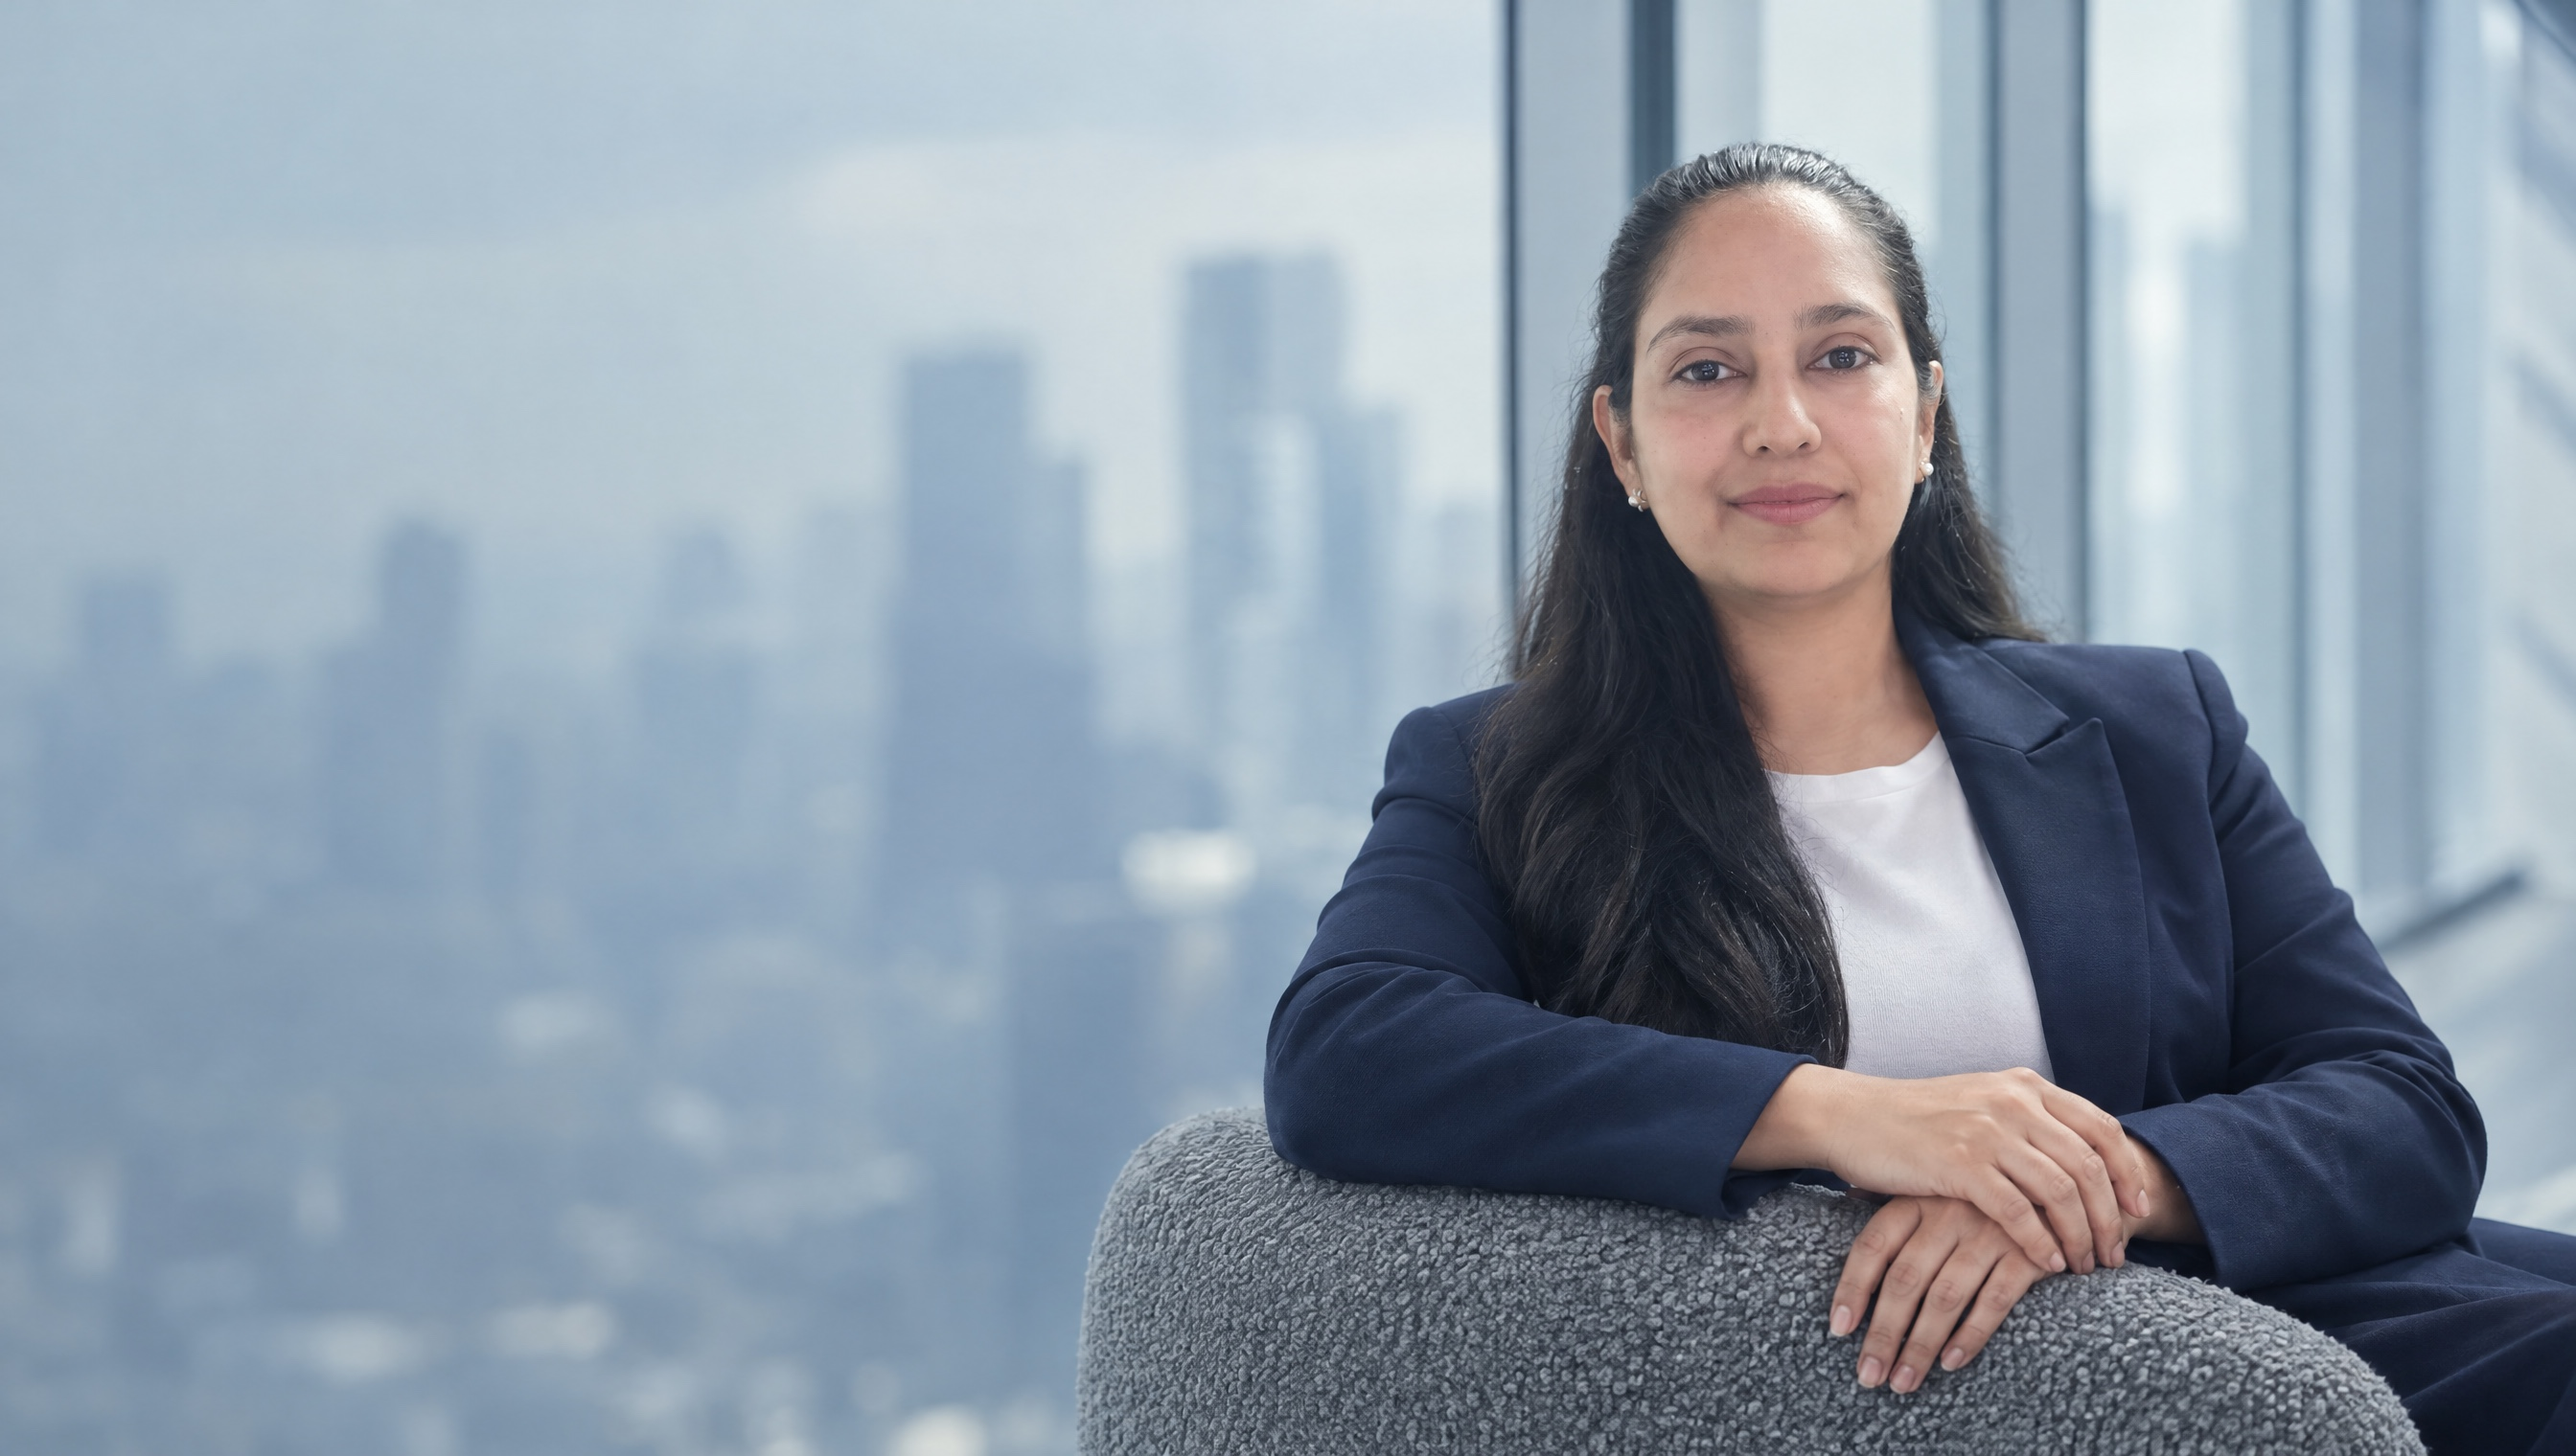
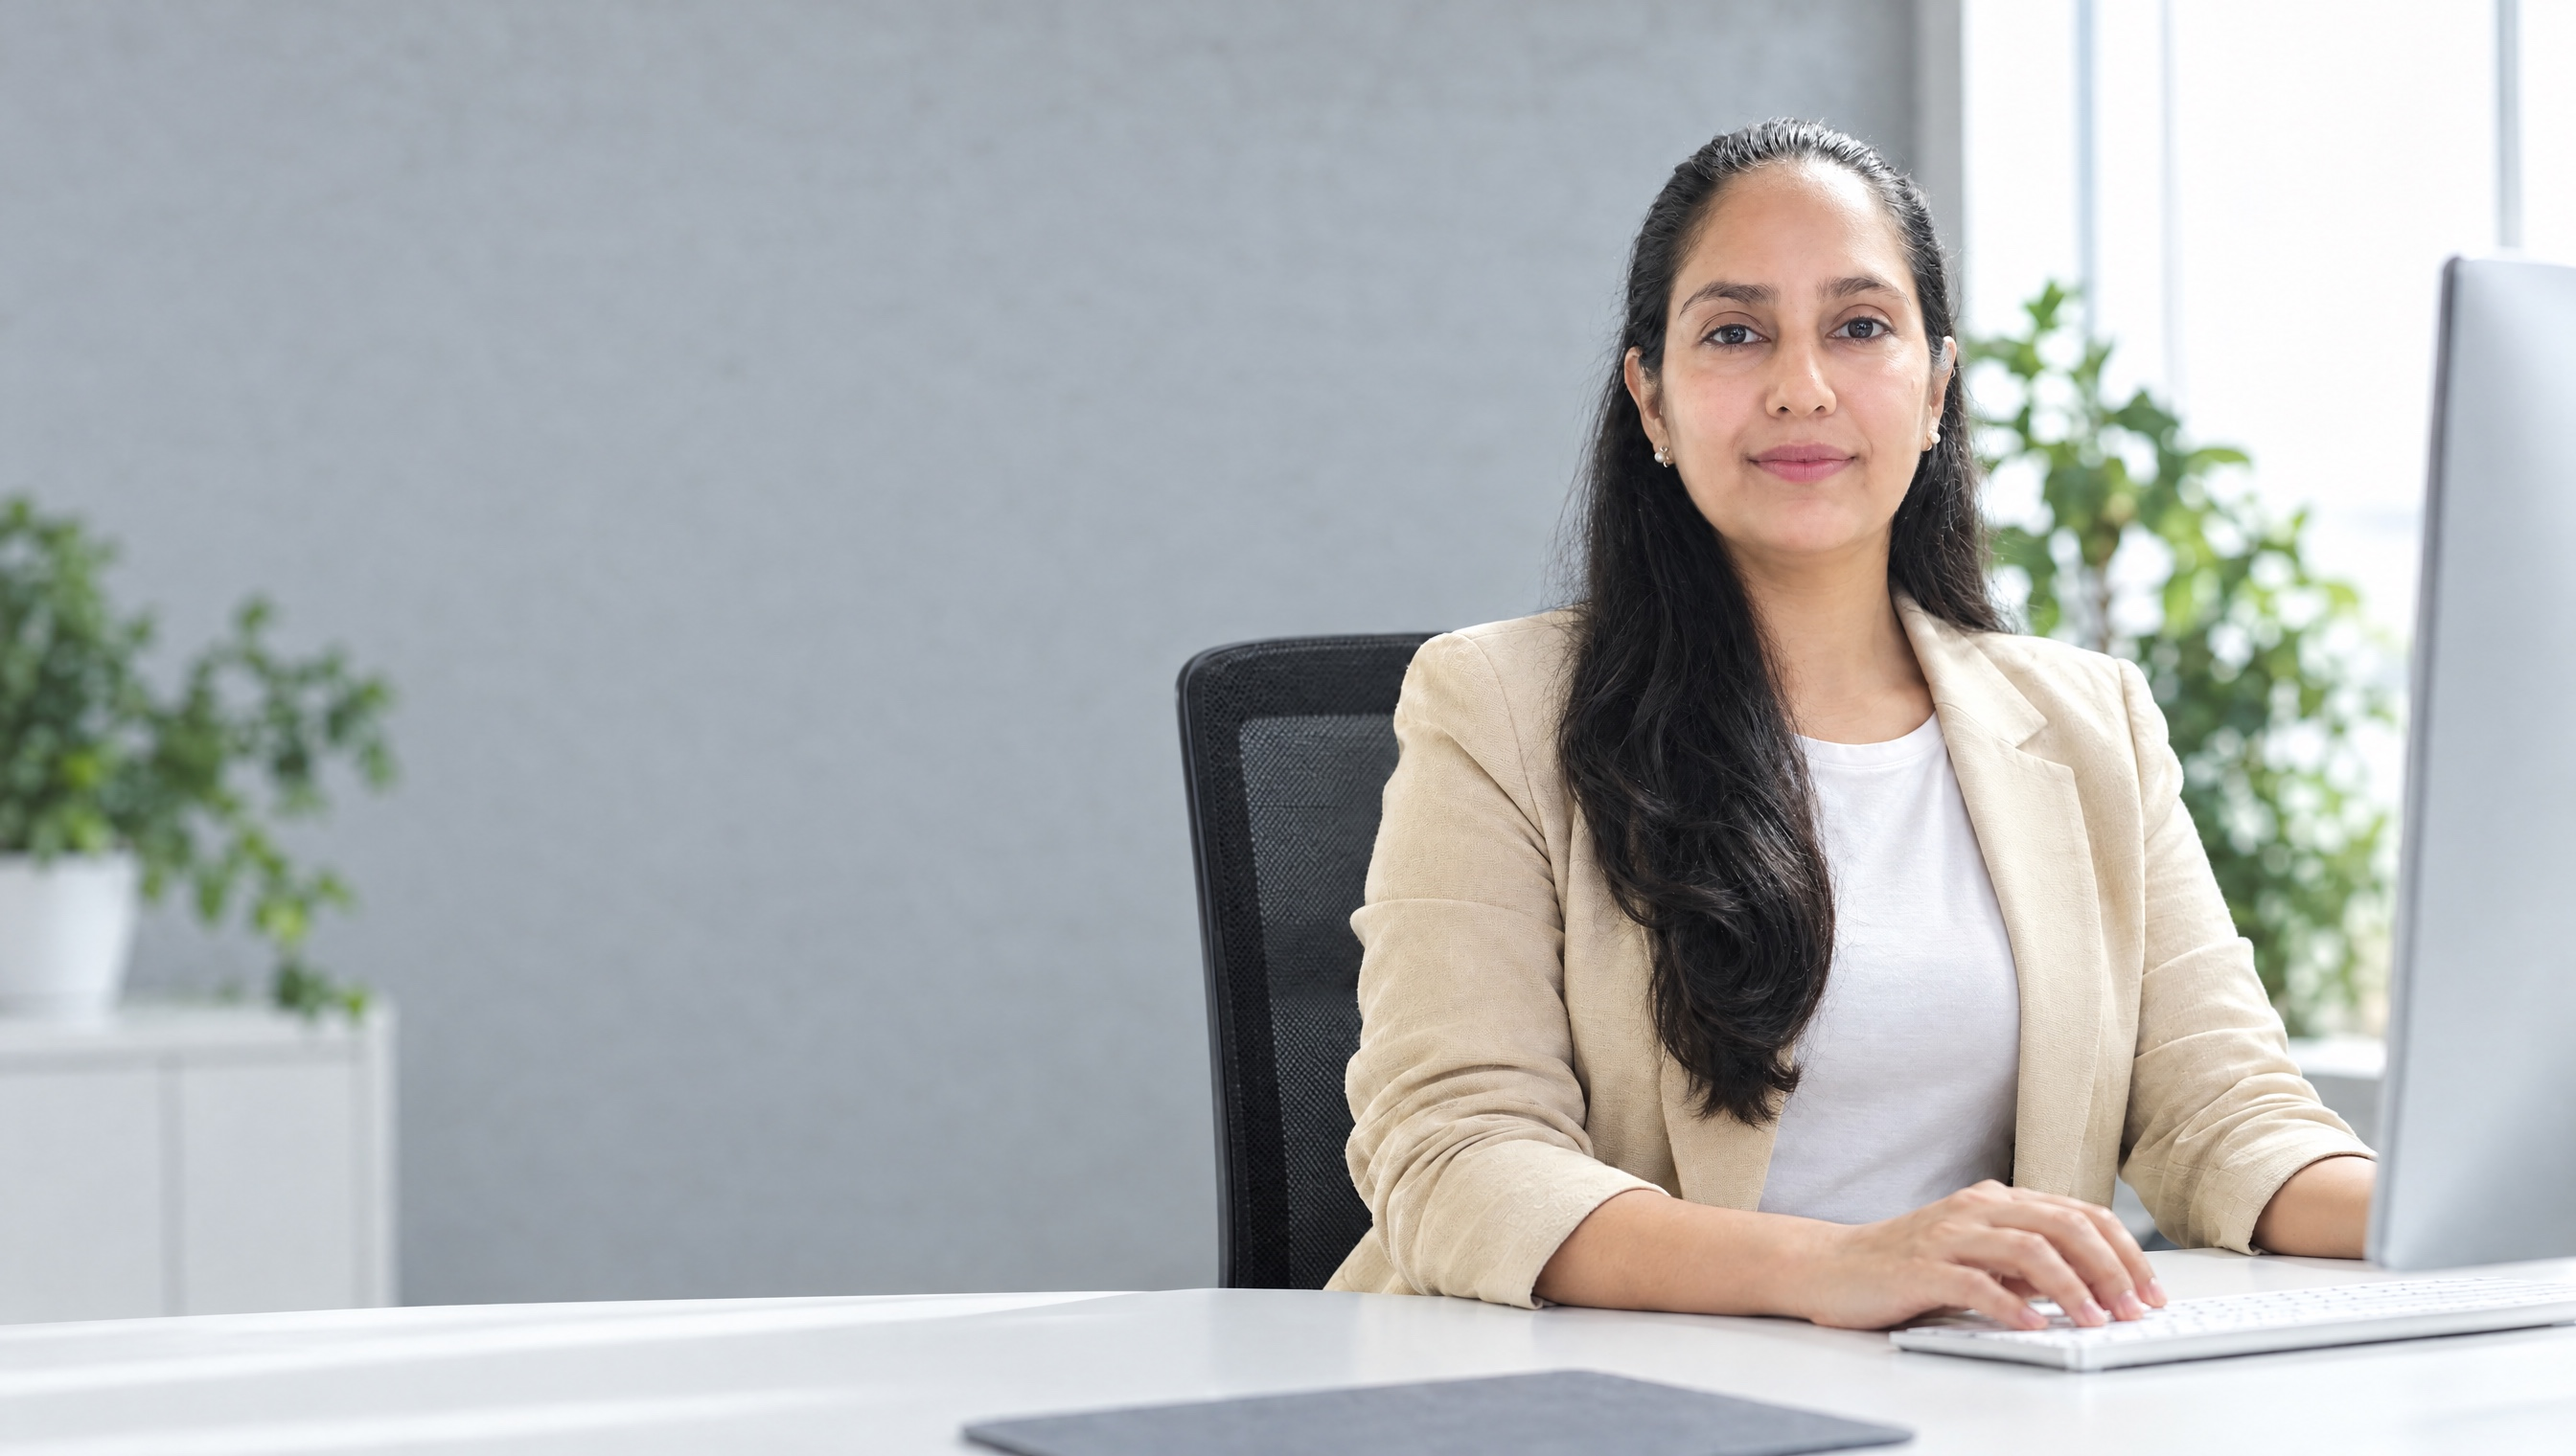
feat(assets): use approved desk portrait as wide hero

diff --git a/docs/SPEC.md b/docs/SPEC.md
@@ -104,9 +104,9 @@ Contrastes AA se verifican y documentan en la implementación.
 
 ### 5.5 Foto y logo (12/10/2026)
 
-- **Foto del hero:** `src/assets/portraits/vanesa-hero.jpg` (16:9), estilo Consultaro: ella sentada en el tercio derecho, blazer navy, ventanal con ciudad desenfocada en tonos fríos, mitad izquierda libre para el texto. Generada con Higgsfield usando sus dos fotos reales como referencia de identidad y el hero de Consultaro como referencia de composición.
+- **Foto del hero (elegida por Iván y Vanesa, 12/10/2026):** `vanesa-hero.jpg` (16:9) = `vanesa-office-desk.jpg` ampliada hacia la izquierda con Higgsfield: ella en el escritorio con blazer beige, en la mitad derecha; oficina clara a la izquierda para el texto. En móvil se usa la vertical `vanesa-office-desk.jpg` (`<picture>` con dirección de arte). Velo oscuro en degradado desde la izquierda para el texto blanco, como Consultaro.
 - **Fotos de apoyo** (generadas con sus dos fotos reales como referencia de identidad, mismo blazer y blusa que el hero para que el set sea coherente):
-  - `vanesa-office-desk.jpg` (4:5): en el escritorio con monitor → **Sobre mí**.
+  - `vanesa-office-desk.jpg` (4:5): versión vertical del hero → **hero en móvil**.
   - `vanesa-reviewing-reports.jpg` (4:5): revisando informes con laptop → **Cómo trabajamos** o página de servicio.
   - `vanesa-wide.jpg` (16:9): de pie a la derecha, espacio libre a la izquierda → **imagen OG** (1200×630 con nombre y rol sobre el espacio libre) y fondo opcional del CTA final.
 - **Todas deben ser aprobadas por ella antes de publicar.**
